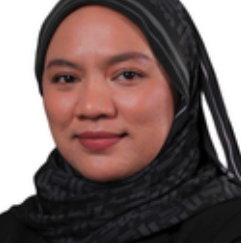
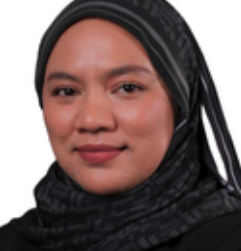
Fix team headshot crops to preserve headroom in hexagon frames
Previous crops put the head/scarf too close to the hexagon's top point,
clipping into the border. Re-cropped with more margin above the head and
pinned object-position to top so any residual cover-crop trims from the
shoulders instead of the face.

diff --git a/site/src/components/Team.tsx b/site/src/components/Team.tsx
@@ -22,7 +22,7 @@ export function Team() {
                     alt={member.name}
                     fill
                     sizes="200px"
-                    className="object-cover transition-transform duration-500 group-hover:scale-110"
+                    className="object-cover object-top transition-transform duration-500 group-hover:scale-110"
                   />
                 </div>
               </div>
